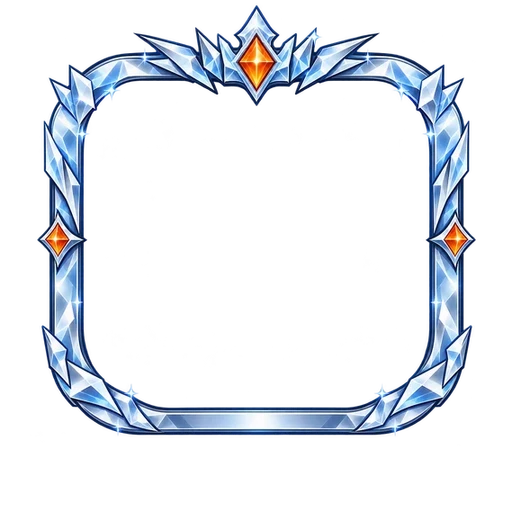
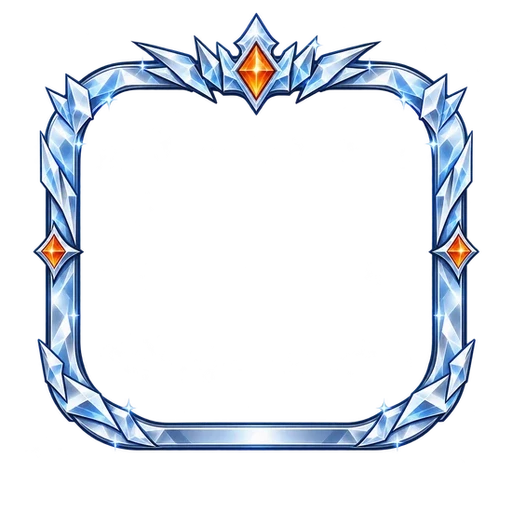
feat: fix frames

Changed region(s): [[0.0625, 0.0, 0.9375, 0.9062]]

diff --git a/apps/web/src/styles.css b/apps/web/src/styles.css
@@ -8067,7 +8067,7 @@ html[data-cat='screen'] .tile[data-id='screen'] .tile-icon {
 
 .avatar-frame {
   position: absolute;
-  inset: -14%;
+  inset: calc(-16% - 2px);
   background-position: center;
   background-repeat: no-repeat;
   background-size: contain;
@@ -8086,10 +8086,11 @@ html[data-cat='screen'] .tile[data-id='screen'] .tile-icon {
 .frame-open {
   display: flex;
   align-items: center;
-  gap: 12px;
-  padding: 10px 14px 10px 10px;
-  border-radius: 14px;
-  border: 1px solid var(--line);
+  gap: 16px;
+  width: 100%;
+  padding: 14px 18px;
+  border-radius: 16px;
+  border: 1px solid transparent;
   background: var(--card-2);
   color: inherit;
   font: inherit;
@@ -8099,43 +8100,38 @@ html[data-cat='screen'] .tile[data-id='screen'] .tile-icon {
 }
 
 .frame-open:hover {
-  border-color: var(--accent);
+  border-color: color-mix(in srgb, var(--accent) 50%, transparent);
 }
 
-.frame-open-preview {
-  display: grid;
-  place-items: center;
-  width: 44px;
-  height: 44px;
+.frame-open-avatar {
   flex: none;
-  border-radius: 12px;
-  background: var(--bg);
-  color: var(--text-3);
-}
-
-.frame-open-preview img {
-  width: 100%;
-  height: 100%;
-  object-fit: contain;
-}
-
-.frame-open-preview i {
-  font-style: normal;
+  margin: 0 6px;
 }
 
 .frame-open-text {
   display: flex;
   flex-direction: column;
   gap: 2px;
+  flex: 1;
+  min-width: 0;
 }
 
 .frame-open-text b {
   font-size: 14px;
+  font-weight: 800;
 }
 
 .frame-open-text small {
   color: var(--text-3);
-  font-size: 12.5px;
+  font-size: 13px;
+}
+
+.frame-open-arrow {
+  flex: none;
+  width: 18px;
+  height: 18px;
+  color: var(--text-3);
+  transform: rotate(-90deg);
 }
 
 .frame-modal {

diff --git a/apps/web/src/FramePicker.tsx b/apps/web/src/FramePicker.tsx
@@ -5,9 +5,9 @@ import { createPortal } from 'react-dom'
 import Avatar from './Avatar'
 import { api } from './api'
 import { useAuth } from './auth'
-import { FRAMES, frameUrl } from './frames'
+import { FRAMES } from './frames'
 import { useI18n } from './i18n'
-import { CloseIcon } from './icons'
+import { ChevronIcon, CloseIcon } from './icons'
 
 export default function FramePicker() {
   const { user, refresh } = useAuth()
@@ -41,13 +41,16 @@ export default function FramePicker() {
   return (
     <>
       <button type="button" className="frame-open" onClick={() => setOpen(true)}>
-        <span className="frame-open-preview">
-          {user.frame ? <img src={frameUrl(user.frame)} alt="" /> : <i aria-hidden>—</i>}
-        </span>
+        <Avatar id={user.id} name={user.nickname} avatar={user.avatar} frame={user.frame} className="frame-open-avatar" />
         <span className="frame-open-text">
           <b>{title}</b>
-          <small>{user.frame ? l(owned.find((one) => one.id === user.frame)?.label ?? { ru: '', uk: '', en: '' }) : l({ ru: 'не выбрана', uk: 'не вибрана', en: 'none' })}</small>
+          <small>
+            {user.frame
+              ? l(owned.find((one) => one.id === user.frame)?.label ?? { ru: '', uk: '', en: '' })
+              : l({ ru: 'не выбрана', uk: 'не вибрана', en: 'none' })}
+          </small>
         </span>
+        <ChevronIcon className="frame-open-arrow" />
       </button>
 
       {open &&
